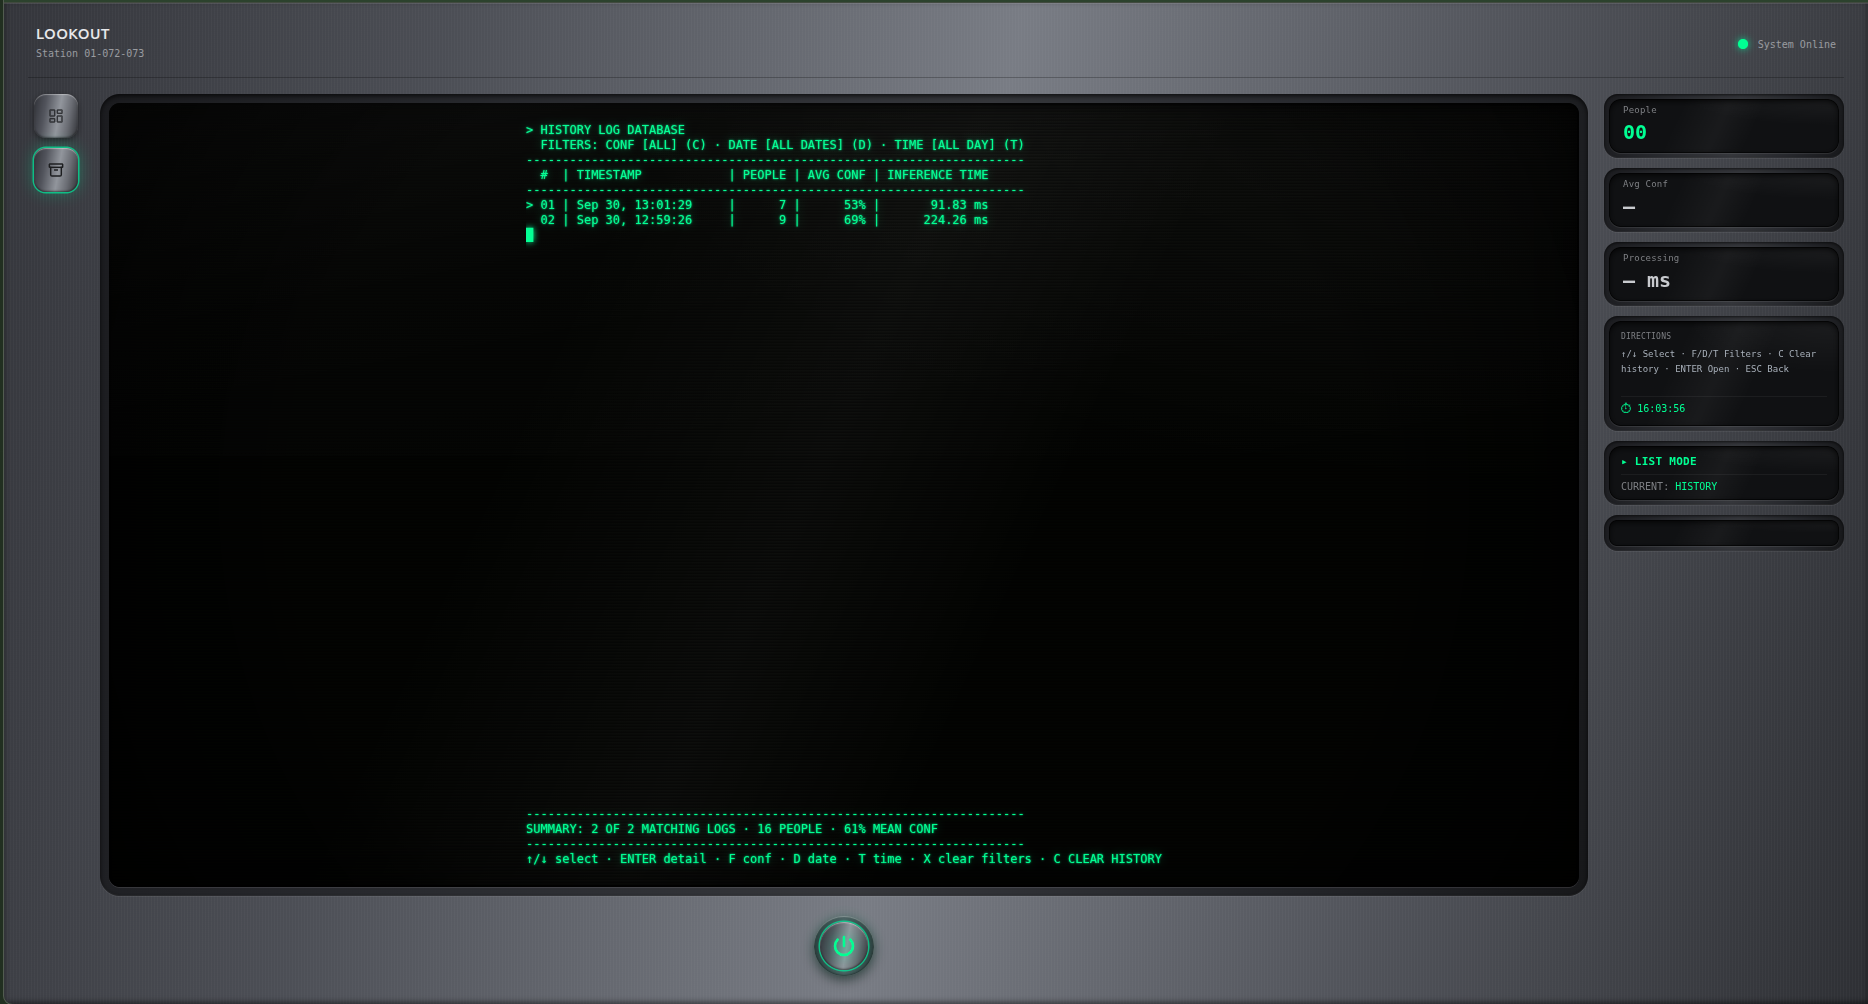
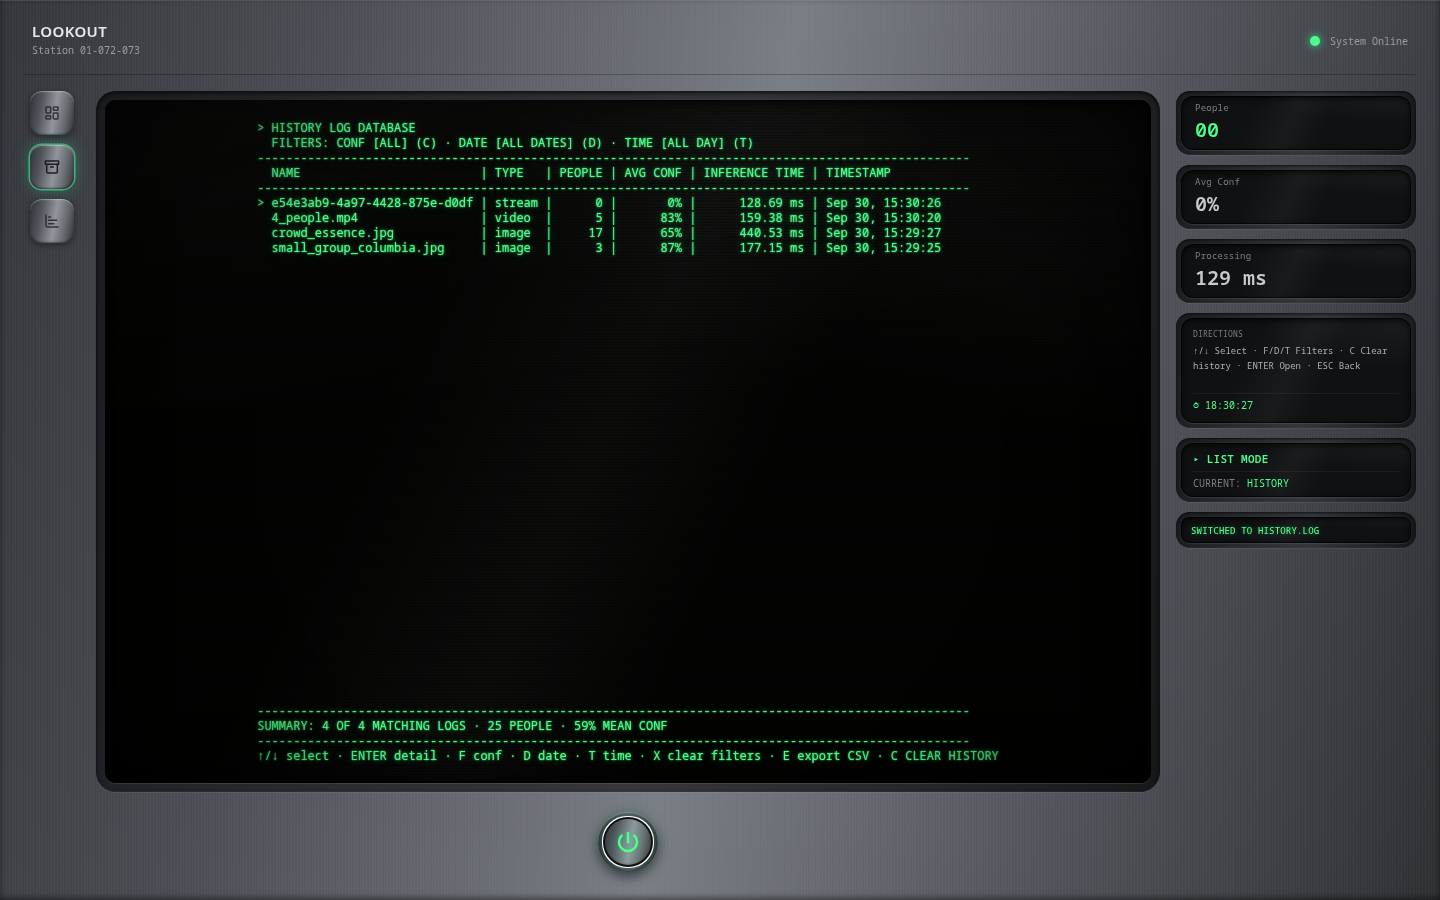
Refresh README for the video/webcam/bonus feature set, fresh screenshots
The README hadn't been touched since before the Stats page, CSV
export, region alerts and movement trail landed, and one line was
flat wrong: it said a webcam frame is "one row per captured frame",
which was true before the PR #23 fix and isn't anymore.

- Fix the stale webcam history-result description.
- Add a Bonus Features section covering all six brief items.
- Document POST /detect/finalize and the media_type=stream flow.
- Add E (export CSV) to the shortcuts list, mention the Stats page.
- Update test counts (39 backend, 28 frontend).
- Replace all screenshots with fresh captures from a real end-to-end
  walkthrough on current main: a clear-scene upload, a crowd upload
  that trips the region alert, a real video-file upload
  (frontend/public/samples/4_people.mp4) playing back with synced
  boxes, the history table with a mix of image/video/stream rows, and
  the new Stats page.

diff --git a/README.md b/README.md
@@ -4,8 +4,9 @@ A real-time person detection and counting system. Upload an image or a video fil
 
 - **Backend**: FastAPI + YOLOv8n (Ultralytics), SQLite for history. Serves person detection for a still image, a single video frame, or a stream of frames.
 - **Frontend**: React + Vite + Tailwind CSS v4, featuring:
-  - **Detection View**: Image upload, video-file upload (sampled frame-by-frame), and live webcam streaming, with real-time bounding-box overlays, count, confidence and processing time.
-  - **History View**: Interactive CRT data table — columns `name, type, people, avg conf, inference time, timestamp` — with multi-criteria filtering (Confidence threshold, Date, Time of Day), a dynamic metrics summary, and `localStorage` offline caching.
+  - **Detection View**: Image upload, video-file upload (sampled frame-by-frame), and live webcam streaming, with real-time bounding-box overlays, count, confidence and processing time. A fixed restricted-area region is checked on every detection; going over a headcount limit draws an alert border and flags the caption. A live stream also plots a fading trail of recent detection positions.
+  - **History View**: Interactive CRT data table — columns `name, type, people, avg conf, inference time, timestamp` — with multi-criteria filtering (Confidence threshold, Date, Time of Day), a dynamic metrics summary, `localStorage` offline caching, a confirm-gated clear-history command, and CSV export of the currently filtered rows.
+  - **Stats View**: Average crowd size per hour, bucketed from the full history and rendered as a 24-hour bar chart.
 
 ---
 
@@ -42,7 +43,22 @@ A real-time person detection and counting system. Upload an image or a video fil
 |---|---|---|
 | **Image** (JPG / PNG) | Posted straight to `/detect`. | One row, `media_type = image`. |
 | **Video** (MP4 / WEBM / MOV) | Sampled at 8 Hz in the browser; each frame posted to `/detect`; boxes interpolated during playback. | **One** row compiled from every frame, `media_type = video`. |
-| **Webcam** | Frames captured from the live stream and posted to `/detect`. | One row per captured frame, `media_type = image`. |
+| **Webcam** | Frames captured from the live stream and posted to `/detect` with `media_type=stream`. | **One** row per session, compiled from every captured tick via `POST /detect/finalize` when the stream stops, `media_type = stream`. |
+
+---
+
+## Bonus Features
+
+All six bonus items from the project brief:
+
+| Feature | Notes |
+|---|---|
+| Real-time webcam feed with overlays | Live capture + detection boxes drawn over the feed, see Detection Inputs above. |
+| Live browser camera capture | Same feature — `getUserMedia`, no separate hardware/app needed. |
+| Region-based alerts | A fixed "restricted area" (center 50% of the frame) and a headcount threshold (>3), checked on every image upload and every live-stream tick. Over the limit draws a red border around the region and prefixes the result caption with `[ ALERT: RESTRICTED AREA OVER LIMIT ]`. Fixed rather than user-drawable — this is a keyboard-only console, so an arbitrary ROI editor doesn't fit the interaction model; the mechanism is real, the region just isn't configurable yet. |
+| Heatmap / movement tracking lines | While a webcam stream is running, a fading ~24s trail of recent detection positions is plotted over the feed. There's no cross-frame person re-identification (no track-id concept for live streams), so this is a "recent movement" visualization rather than full tracking — the precomputed video-file path does track people across frames for its own playback, but that data isn't reused here. |
+| Stats panel (avg crowd size per hour) | New Stats view — buckets every history row by hour-of-day and shows the average `person_count` per hour as a bar chart, entirely client-side. |
+| Export history to CSV | `E` on the History list downloads the currently filtered rows as a CSV file. |
 
 ---
 
@@ -50,11 +66,12 @@ A real-time person detection and counting system. Upload an image or a video fil
 
 | Endpoint | Method | Payload / Params | Response |
 |---|---|---|---|
-| `/detect` | `POST` | `multipart/form-data`: `file` (required) plus optional `media_type` (`image`\|`video`), `media_name`, `frame_index`, `total_frames` | JSON with `count`, `boxes[]` (`x, y, width, height, confidence`), `average_confidence`, `inference_time_ms`, `processed_image`. `400`/`422` on invalid, empty, or incomplete video-frame payloads. |
+| `/detect` | `POST` | `multipart/form-data`: `file` (required) plus optional `media_type` (`image`\|`video`\|`stream`), `media_name`, `frame_index`, `total_frames` | JSON with `count`, `boxes[]` (`x, y, width, height, confidence`), `average_confidence`, `inference_time_ms`, `processed_image`. `400`/`422` on invalid, empty, or incomplete video-frame/stream payloads. |
+| `/detect/finalize` | `POST` | JSON body: `{"media_name": "..."}` | `{"status": "saved", "frame_count": N}` if that session had buffered ticks, compiling them into one history row; `{"status": "nothing to finalize"}` otherwise (e.g. a stream stopped before its first tick completed). |
 | `/history` | `GET` | Params: `date_from`, `date_to`, `min_confidence`, `limit` | JSON array of records (`id`, `timestamp`, `person_count`, `average_confidence`, `inference_time_ms`, `media_type`, `media_name`, `frame_count`), newest first. |
 | `/reset` | `POST` | None | `{"status": "cleared"}` |
 
-`media_type`/`media_name`/`frame_index`/`total_frames` are only sent by the video path: they tag a request as one frame of a video so the backend can compile all of its frames into a single history row when the **last** frame (`frame_index == total_frames - 1`) arrives.
+`media_type`/`media_name`/`frame_index`/`total_frames` are sent by the video-file and webcam-stream paths so the backend can compile many `/detect` calls into a single history row instead of one per call: a video request tags itself `media_type=video` and the backend finalizes automatically when the **last** frame (`frame_index == total_frames - 1`) arrives; a stream request tags itself `media_type=stream` (grouped by `media_name`, a per-session id) and has no known last frame, so the frontend calls `/detect/finalize` explicitly when the user stops the stream.
 
 ---
 
@@ -103,11 +120,11 @@ npm run dev
 
 ```bash
 # Backend (from backend/)
-./.venv/bin/python -m pytest -q                  # 35 unit/integration tests
+./.venv/bin/python -m pytest -q                  # 39 unit/integration tests
 ./.venv/bin/python scripts/validate.py --markdown # reproduce the metrics below
 
 # Frontend (from frontend/)
-npm test                                          # Vitest + jsdom unit tests
+npm test                                          # Vitest + jsdom unit tests, 28 tests
 npm run lint                                      # oxlint
 ```
 
@@ -182,36 +199,49 @@ Reproduced from `validate.py`. `truth = -` marks an uncountable stress image (fe
 
 ## Frontend User Navigation Shortcuts
 
-- `↑ / ↓ / ← / →`: Navigate menus, options, and history rows.
+- `↑ / ↓ / ← / →`: Navigate pages (Detect / History / Stats), menus, options, and history rows.
 - `ENTER` / `SPACE`: Select a menu option / open a history record.
 - `ESC` / `BACKSPACE`: Return to the previous level / cancel video pre-processing / stop the live stream.
 - `F`: Cycle the Confidence threshold filter (`ALL`, `≥50%`, `≥60%`, `≥70%`, `≥80%`, `≥90%`).
 - `D`: Cycle the Date filter (`ALL DATES`, `TODAY`, `PAST 24H`, `PAST 7D`).
 - `T`: Cycle the Time-of-day filter (`ALL DAY`, `MORNING`, `AFTERNOON`, `EVENING`, `NIGHT`).
 - `X`: Reset all active filters.
+- `E`: Export the currently filtered History rows to a CSV file.
 - `C`: Clear history — opens a `[Y] YES / [N] NO` confirmation before erasing the database.
 
 ---
 
 ## Screenshots
 
-Captured from the running app (backend on `:8000`, frontend on `:5173`), using two of the `backend/samples/` images through the real upload flow.
+Captured from the running app (backend on `:8000`, frontend on `:5173`) during a real end-to-end walkthrough — every screenshot below is a genuine result from that session, not a mock-up.
 
 **Detection View — `small_group_columbia.jpg`, a clear scene:**
 
 ![Detection View, 3 people found](docs/screenshots/detection_small_group.png)
 
-3 of 3 people found, 87% average confidence, 353 ms.
+3 of 3 people found, 87% average confidence, 177 ms.
 
-**Detection View — `crowd_essence.jpg`, a dense stress scene:**
+**Detection View — `crowd_essence.jpg`, a dense scene that trips the region alert:**
 
-![Detection View, a crowd with 17 boxes](docs/screenshots/detection_crowd.png)
+![Detection View, a crowd with 17 boxes and an alert triggered](docs/screenshots/detection_crowd_alert.png)
 
-17 people found at 65% average confidence.
+17 people found at 65% average confidence; enough of them fall inside the restricted-area region to clear the threshold of 3, so the caption reads `[ ALERT: RESTRICTED AREA OVER LIMIT ]`.
 
-**History View, listing detections:**
+**Detection View — video-file upload, `4_people.mp4`:**
 
-![History View listing both detections](docs/screenshots/history_view.png)
+![Detection View playing back a video with synced boxes](docs/screenshots/detection_video.png)
+
+96 sampled frames compiled into a single history row; 5 peak people across the clip.
+
+**History View, listing a mix of image, video and stream detections:**
+
+![History View listing four detections of different media types](docs/screenshots/history_view.png)
+
+**Stats View, average crowd size per hour:**
+
+![Stats View showing a bar chart of average crowd size per hour](docs/screenshots/stats_view.png)
+
+All four detections from this session landed in the same hour, so only one bar is populated — an honest result of a short test session, not a full day of traffic.
 
 ---
 
@@ -222,23 +252,23 @@ detecto/
 ├── backend/
 │   ├── main.py                 # FastAPI app & lifecycle (CORS, DB init, model warm-up)
 │   ├── routes/
-│   │   ├── detect.py           # POST /detect (image + video-frame ingest, history roll-up)
+│   │   ├── detect.py           # POST /detect + /detect/finalize (image/video/stream ingest, history roll-up)
 │   │   └── history.py          # GET /history & POST /reset
 │   ├── models/record.py        # SQLite schema (DetectionRecord) & Pydantic models
 │   ├── utils/preprocessing.py  # OpenCV CLAHE image enhancement
 │   ├── scripts/validate.py     # Evaluation-metrics runner
-│   ├── tests/                  # pytest: detect, history, preprocessing (35 tests)
+│   ├── tests/                  # pytest: detect, history, preprocessing (39 tests)
 │   └── samples/                # 18 test images + ground_truth.json
 ├── docs/
 │   └── screenshots/            # UI screenshots
 ├── frontend/
 │   ├── vitest.config.js        # Test runner config (jsdom)
-│   ├── public/samples/         # Demo benchmark image assets
+│   ├── public/samples/         # Demo benchmark image + video assets
 │   └── src/
 │       ├── api/Client.js       # Axios HTTP client
 │       ├── components/         # Console chassis & CRT screen components
-│       ├── hooks/              # Webcam, video precompute, upload, keyboard, history
+│       ├── hooks/              # Webcam stream, video precompute, upload, keyboard, history, movement trail
 │       ├── stores/             # Domain Zustand stores (Navigation, Detection, Filters)
-│       ├── utils/              # Detection normalisation & timeline interpolation
+│       ├── utils/              # Detection normalisation, timeline interpolation, region alerts, CSV export
 │       └── test/setup.js       # jest-dom matchers + jsdom stubs
 ```
